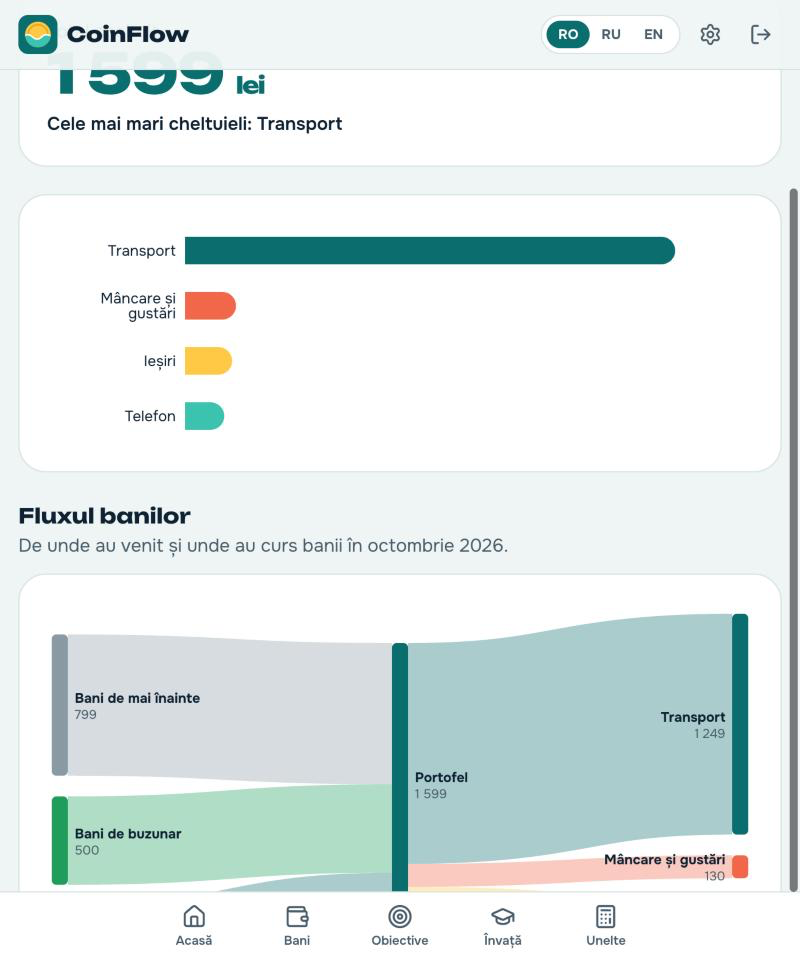
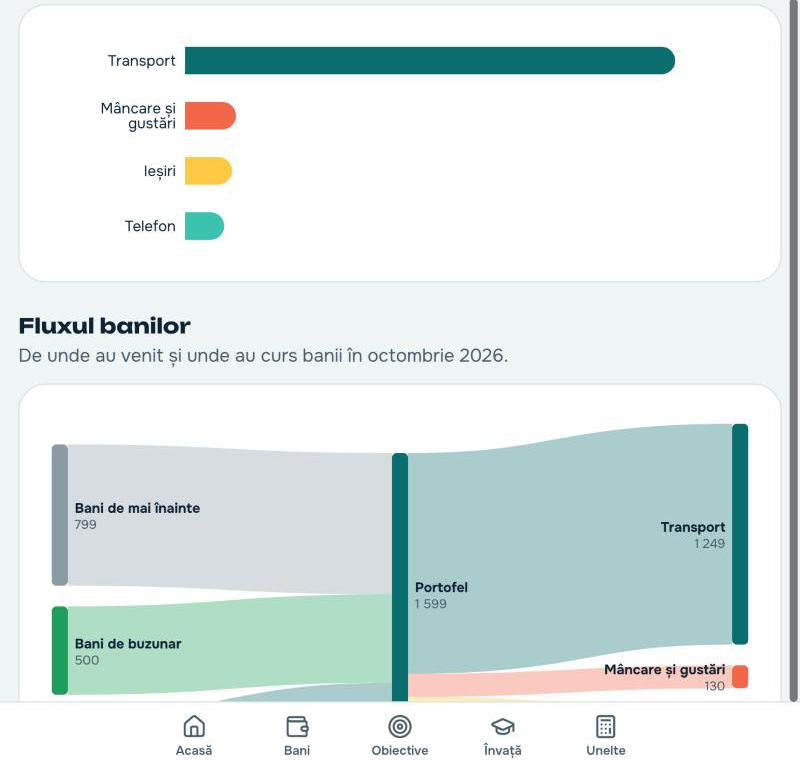
Fix Moldovan payroll rules (2026) and layout issues from evaluation
- Employee social contribution 0% since 2021 (employer pays 24% on top)
- 9% medical premium deducted before income tax
- Personal exemption 29 700 lei/year, only under 360 000 lei taxable income
- Dependant exemption 9 900 lei/year, new input on the payslip page
- 10 000 lei gross -> 8 305 lei net, covered by tests
- More space around the money flow chart, scroll offset under the sticky header
- Record the missed tax check in AI_LOG

diff --git a/src/app/payslip/page.tsx b/src/app/payslip/page.tsx
@@ -11,11 +11,11 @@ import Wave from "@/components/Wave";
 export default function PayslipPage() {
   const { t } = useLanguage();
   const [gross, setGross] = useState("10000");
-  const slip = calculatePayslip(leiToBani(Number(gross.replace(",", ".")) || 0));
+  const [dependants, setDependants] = useState(0);
+  const slip = calculatePayslip(leiToBani(Number(gross.replace(",", ".")) || 0), dependants);
   const percent = (rate: number) => `${Math.round(rate * 100)}%`;
 
   const deductions = [
-    { label: t("payslip.social"), rate: percent(MOLDOVA_TAX.socialRateEmployee), bani: slip.socialBani, text: t("payslip.socialText") },
     { label: t("payslip.medical"), rate: percent(MOLDOVA_TAX.medicalRateEmployee), bani: slip.medicalBani, text: t("payslip.medicalText") },
     { label: t("payslip.incomeTax"), rate: percent(MOLDOVA_TAX.incomeTaxRate), bani: slip.incomeTaxBani, text: t("payslip.incomeTaxText") },
   ];
@@ -27,15 +27,29 @@ export default function PayslipPage() {
         <p className="mt-1 text-ink-soft">{t("payslip.intro")}</p>
       </div>
 
-      <div className="card">
-        <label className="label" htmlFor="gross">{t("payslip.gross")}</label>
-        <input
-          id="gross"
-          className="input big-number text-3xl"
-          inputMode="decimal"
-          value={gross}
-          onChange={(e) => setGross(e.target.value.replace(/[^0-9.,]/g, ""))}
-        />
+      <div className="card grid gap-4 sm:grid-cols-[1fr_auto]">
+        <div>
+          <label className="label" htmlFor="gross">{t("payslip.gross")}</label>
+          <input
+            id="gross"
+            className="input big-number text-3xl"
+            inputMode="decimal"
+            value={gross}
+            onChange={(e) => setGross(e.target.value.replace(/[^0-9.,]/g, ""))}
+          />
+        </div>
+        <div>
+          <label className="label" htmlFor="dependants">{t("payslip.dependants")}</label>
+          <input
+            id="dependants"
+            type="number"
+            min={0}
+            max={10}
+            className="input big-number text-3xl sm:w-28"
+            value={dependants}
+            onChange={(e) => setDependants(Math.max(0, Math.min(10, Number(e.target.value) || 0)))}
+          />
+        </div>
       </div>
 
       <div className="relative overflow-hidden rounded-card bg-flow p-6 pb-14 text-white">
@@ -62,7 +76,7 @@ export default function PayslipPage() {
 
         <div className="card text-sm">
           <p className="font-bold">{t("payslip.exemption")}: {formatBani(slip.exemptionBani)} {t("common.lei")}</p>
-          <p className="text-ink-soft">{t("payslip.exemptionText")}</p>
+          <p className="text-ink-soft">{slip.exemptionBani > 0 ? t("payslip.exemptionText") : t("payslip.noExemption")}</p>
           <p className="mt-2 font-bold">{t("payslip.taxable")}: {formatBani(slip.taxableBani)} {t("common.lei")}</p>
         </div>
 
@@ -71,6 +85,7 @@ export default function PayslipPage() {
             {t("payslip.employer")} ({percent(MOLDOVA_TAX.socialRateEmployer)}): {formatBani(slip.employerSocialBani)} {t("common.lei")}
           </p>
           <p className="text-ink-soft">{t("payslip.employerText")}</p>
+          <p className="mt-2 font-bold">{t("payslip.totalCost")}: {formatBani(slip.grossBani + slip.employerSocialBani)} {t("common.lei")}</p>
         </div>
       </section>
 

diff --git a/src/config/moldova-tax.ts b/src/config/moldova-tax.ts
@@ -1,20 +1,31 @@
-// Moldovan payroll tax rates used by the payslip explainer.
+// Moldovan payroll rules used by the payslip explainer (fiscal year 2026).
 //
 // IMPORTANT: check these numbers against official Moldovan sources before presenting
 // (Serviciul Fiscal de Stat – sfs.md, Codul Fiscal on legis.md, CNAS and CNAM).
 // Rates and the personal exemption can change every year.
-// Last checked by the author: 13 October 2026.
+//
+// Verified 10 November 2026 against:
+//  - CNAS: the employee's 6% individual social contribution was abolished from January 2021;
+//    since then the employer pays the whole social contribution (24% in the private sector).
+//  - Codul Fiscal / sfs.md: income tax 12%; personal exemption 29 700 lei/year (2 475 lei/month)
+//    for residents with annual taxable income under 360 000 lei; dependant exemption 9 900 lei/year.
+//  - The employee's 9% medical insurance premium (CNAM) is deducted before the income tax is calculated.
+//  Cross-check: 10 000 lei gross -> 8 305 lei net (matches public 2026 salary calculators).
 
 export const MOLDOVA_TAX = {
   year: 2026,
   // Income tax (impozit pe venit), flat rate on taxable income.
   incomeTaxRate: 0.12,
-  // Personal exemption (scutire personală) per YEAR, in bani. Taxable income is reduced by this.
-  personalExemptionYearBani: 30_000_00,
-  // Employee social insurance contribution (contribuția individuală de asigurări sociale – CNAS).
-  socialRateEmployee: 0.06,
-  // Employee medical insurance premium (prima de asigurare medicală – CNAM).
+  // Personal exemption (scutire personală) per YEAR, in bani.
+  personalExemptionYearBani: 29_700_00,
+  // Exemption for each dependant (scutire pentru persoanele întreținute) per YEAR, in bani.
+  dependantExemptionYearBani: 9_900_00,
+  // No exemptions if the yearly taxable income is this much or more, in bani.
+  exemptionIncomeLimitYearBani: 360_000_00,
+  // Employee medical insurance premium (prima de asigurare obligatorie de asistență medicală – CNAM).
   medicalRateEmployee: 0.09,
-  // Employer social contribution — paid by the employer on top of the gross salary (not taken from you).
+  // Employee social insurance contribution: 0% since 2021 (kept here so the rule is visible).
+  socialRateEmployee: 0,
+  // Employer social contribution (CNAS) — paid by the employer ON TOP of the gross salary, not taken from you.
   socialRateEmployer: 0.24,
 };

diff --git a/src/lib/payslip.ts b/src/lib/payslip.ts
@@ -2,21 +2,31 @@ import { MOLDOVA_TAX } from "@/config/moldova-tax";
 
 export type Payslip = {
   grossBani: number;
-  socialBani: number;     // 6% social insurance (for your future pension)
-  medicalBani: number;    // 9% medical insurance
-  exemptionBani: number;  // monthly part of the personal exemption
+  socialBani: number;     // employee social contribution (0% in 2026)
+  medicalBani: number;    // 9% medical insurance (CNAM)
+  exemptionBani: number;  // monthly personal + dependant exemptions
   taxableBani: number;    // income the 12% tax is applied to
   incomeTaxBani: number;  // 12% income tax
   netBani: number;        // what you actually receive
-  employerSocialBani: number; // paid extra by the employer
+  employerSocialBani: number; // 24% paid extra by the employer (CNAS)
 };
 
 // Monthly payslip from a monthly gross salary (all values in bani).
-export function calculatePayslip(grossBani: number, rates = MOLDOVA_TAX): Payslip {
+//   taxable = gross − medical premium − exemptions
+//   net     = gross − medical premium − income tax
+export function calculatePayslip(grossBani: number, dependants = 0, rates = MOLDOVA_TAX): Payslip {
   const gross = Math.max(0, Math.round(grossBani));
   const socialBani = Math.round(gross * rates.socialRateEmployee);
   const medicalBani = Math.round(gross * rates.medicalRateEmployee);
-  const exemptionBani = Math.round(rates.personalExemptionYearBani / 12);
+
+  // Exemptions only apply if the yearly taxable income stays under the limit.
+  const yearlyTaxableBeforeExemptions = (gross - socialBani - medicalBani) * 12;
+  const exemptionYearBani =
+    yearlyTaxableBeforeExemptions < rates.exemptionIncomeLimitYearBani
+      ? rates.personalExemptionYearBani + Math.max(0, dependants) * rates.dependantExemptionYearBani
+      : 0;
+  const exemptionBani = Math.round(exemptionYearBani / 12);
+
   const taxableBani = Math.max(0, gross - socialBani - medicalBani - exemptionBani);
   const incomeTaxBani = Math.round(taxableBani * rates.incomeTaxRate);
   const netBani = gross - socialBani - medicalBani - incomeTaxBani;

diff --git a/src/lib/calculations.test.ts b/src/lib/calculations.test.ts
@@ -48,20 +48,31 @@ describe("what-if totals", () => {
   });
 });
 
-describe("payslip", () => {
+describe("payslip (Moldova 2026 rules)", () => {
   it("calculates a 10 000 lei gross salary", () => {
     const slip = calculatePayslip(1000000);
-    expect(slip.socialBani).toBe(60000); // 6%
+    expect(slip.socialBani).toBe(0); // employee pays no social contribution since 2021
     expect(slip.medicalBani).toBe(90000); // 9%
-    expect(slip.exemptionBani).toBe(250000); // 30 000 / 12
-    expect(slip.taxableBani).toBe(600000);
-    expect(slip.incomeTaxBani).toBe(72000); // 12% of 6 000
-    expect(slip.netBani).toBe(778000);
+    expect(slip.exemptionBani).toBe(247500); // 29 700 / 12
+    expect(slip.taxableBani).toBe(662500); // 10 000 - 900 - 2 475
+    expect(slip.incomeTaxBani).toBe(79500); // 12% of 6 625
+    expect(slip.netBani).toBe(830500); // 8 305 lei, same as public 2026 calculators
+    expect(slip.employerSocialBani).toBe(240000); // 24% paid on top by the employer
   });
   it("never has negative tax for small salaries", () => {
     const slip = calculatePayslip(200000);
     expect(slip.incomeTaxBani).toBe(0);
-    expect(slip.netBani).toBe(200000 - 12000 - 18000);
+    expect(slip.netBani).toBe(200000 - 18000);
+  });
+  it("adds 825 lei/month exemption for each dependant", () => {
+    const slip = calculatePayslip(1000000, 2);
+    expect(slip.exemptionBani).toBe(247500 + 2 * 82500);
+    expect(slip.incomeTaxBani).toBe(Math.round((1000000 - 90000 - 412500) * 0.12));
+  });
+  it("gives no exemption when yearly taxable income is 360 000 lei or more", () => {
+    const slip = calculatePayslip(4000000); // 40 000 lei/month -> 436 800 lei/year after medical
+    expect(slip.exemptionBani).toBe(0);
+    expect(slip.netBani).toBe(4000000 - 360000 - 436800);
   });
 });
 

diff --git a/src/components/MoneyFlowChart.tsx b/src/components/MoneyFlowChart.tsx
@@ -18,13 +18,13 @@ export default function MoneyFlowChart({ flow }: { flow: MoneyFlow }) {
   };
 
   return (
-    <div className="h-80 w-full" role="img" aria-label={t("flow.title")}>
+    <div className="h-96 w-full" role="img" aria-label={t("flow.title")}>
       <ResponsiveContainer width="100%" height="100%">
         <Sankey
           data={data}
           nodeWidth={14}
           nodePadding={18}
-          margin={{ top: 10, bottom: 10, left: 4, right: 4 }}
+          margin={{ top: 16, bottom: 28, left: 4, right: 4 }}
           node={FlowNodeShape}
           link={FlowLinkShape}
         >

diff --git a/src/app/globals.css b/src/app/globals.css
@@ -23,6 +23,11 @@
   --radius-pill: 999px;
 }
 
+/* Keep headings visible below the sticky header when the page scrolls to them */
+html {
+  scroll-padding-top: 5rem;
+}
+
 /* Clear keyboard focus ring on every button, link and input */
 :focus-visible {
   outline: 3px solid var(--color-wave);

diff --git a/AI_LOG.md b/AI_LOG.md
@@ -54,11 +54,13 @@ AI output isn't automatically correct. These problems came up and were fixed aft
 | Quiz answers clicked quickly overwrote each other | Automated browser test | Changed to a safer way of updating React state |
 | Browser `prompt()`/`confirm()` pop-ups looked out of place | Review against the UI/UX criterion | Replaced with the app's own dialogs |
 | Tailwind v4 didn't accept the old `@layer components` style | Build error | Rewrote the shared styles as `@utility` |
+| **Wrong Moldovan tax rules in the payslip.** Claude Code wrote them from memory and marked them "must be checked"; my check didn't catch it | Evaluator feedback on submission #1 | Verified against CNAS and sfs.md: employee social 0% (since 2021), 9% medical deducted before tax, 29 700 lei exemption with the 360 000 lei limit, 9 900 lei per dependant. Added tests with a cross-checked example |
+| Sticky header covered headings, Sankey labels touched the card edge | Evaluator feedback | Scroll offset for the header and more space around the chart |
 
 ## What I checked myself
 
 - [x] I read `docs/HOW_IT_WORKS.md` and can explain each part of the code
-- [x] I checked the tax rates in `src/config/moldova-tax.ts` against official sources (13 Oct 2026). Source I used: the State Tax Service website, [sfs.md](https://www.sfs.md)
+- [x] I checked the tax rates in `src/config/moldova-tax.ts`. **My first check (13 Oct 2026) missed two errors** that the evaluator found: the employee 6% social contribution (abolished in 2021) and the personal exemption (29 700 lei, not 30 000). Re-verified on 10 Nov 2026 against CNAS, sfs.md / Codul Fiscal and public 2026 salary calculators (10 000 lei gross → 8 305 lei net); the formula now has unit tests for these cases.
 - [x] I checked the lesson texts and quiz answers in all three languages
 - [x] I tried every feature on my phone and on a computer
 - [x] I ran `npm test` and saw all 25 tests pass (13 Oct 2026)

diff --git a/docs/HOW_IT_WORKS.md b/docs/HOW_IT_WORKS.md
@@ -54,10 +54,12 @@ Example: 1 200 lei goal, 400 saved, 150/month → 800 ÷ 150 = 5.33 → **6 mont
 **What if** (`whatIfTotals`): daily × 30, × 365, × 365 × 5. 25 lei/day → 750 / 9 125 / 45 625 lei.
 
 **Payslip** (`calculatePayslip`), for 10 000 lei gross:
-- social insurance 6% = 600, medical insurance 9% = 900
-- taxable = 10 000 − 600 − 900 − 2 500 (monthly personal exemption) = 6 000
-- income tax 12% of 6 000 = 720
-- net = 10 000 − 600 − 900 − 720 = **7 780 lei**
+- social insurance: **0%** for the employee (abolished in 2021; the employer pays 24% on top)
+- medical insurance 9% = 900
+- taxable = 10 000 − 900 − 2 475 (monthly personal exemption, 29 700 / 12) = 6 625
+- income tax 12% of 6 625 = 795
+- net = 10 000 − 900 − 795 = **8 305 lei**
+- no exemption if yearly taxable income is 360 000 lei or more; +825 lei/month exemption per dependant
 
 **Currency** (`mdlToForeign`, `foreignToMdl`): the BNM rate says how many lei 1 euro costs. Lei → euro: divide. Euro → lei: multiply. Rounded to 2 decimals.
 

diff --git a/PROGRESS.md b/PROGRESS.md
@@ -25,3 +25,9 @@
 - [x] Presentation + stand: docs/PRESENTATION.md, printable poster
 - [x] Screenshots in docs/screenshots/, money flow chart verified with real data, demo data removed. Tax rates confirmed by user (2026-10-13).
 - [x] Live on Vercel: https://coin-flow-theta.vercel.app (auto-deploys from GitHub main). Poster QR set by user.
+
+## Submission #2 (evaluator feedback 2026-11-10, scored 6/10)
+- [x] Tax engine fixed + verified (employee social 0%, 9% CNAM deducted pre-tax, 29 700 exemption, 360 000 limit, 9 900 dependants); tests updated (27)
+- [x] Sankey margins, scroll offset under sticky header; payslip + summary screenshots replaced
+- [x] AI_LOG records the missed tax check honestly
+- [ ] Decide scope for research core (hypothesis + algorithms + benchmark), economic analysis, MoldSEF docs, A0 poster, 3-min RO/EN pitch

diff --git a/docs/PRESENTATION.md b/docs/PRESENTATION.md
@@ -14,7 +14,7 @@ Teens get pocket money and first salaries, but nobody teaches how to manage them
 1. Home: the big weekly number → press **Add expense** → 25 lei, Food → the number updates.
 2. Goals: show the jar, press **Add money**, watch it fill, read the estimate out loud.
 3. Summary: the bar chart and the **money flow** diagram.
-4. Payslip: type 10 000 → "you take home 7 780 lei", explain one tax.
+4. Payslip: type 10 000 → "you take home 8 305 lei", explain one tax.
 5. Switch the language to Russian and back.
 
 **4. How it's built (1 min)**
